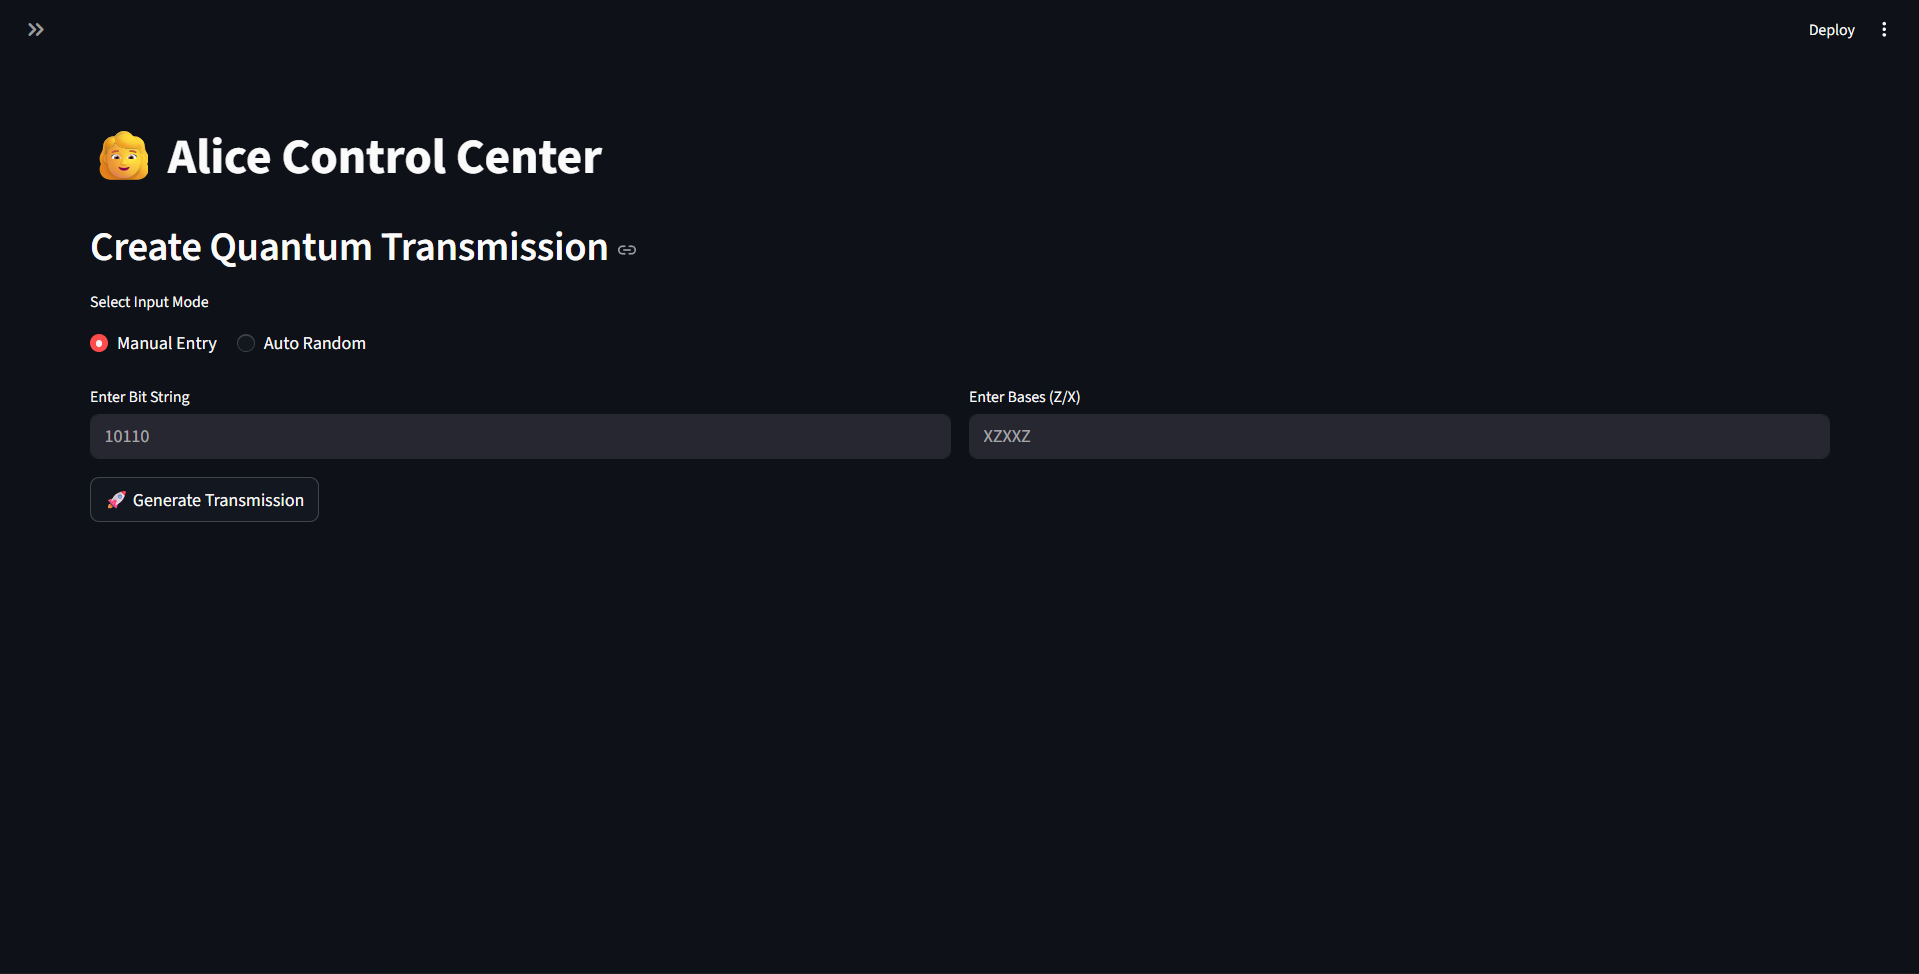
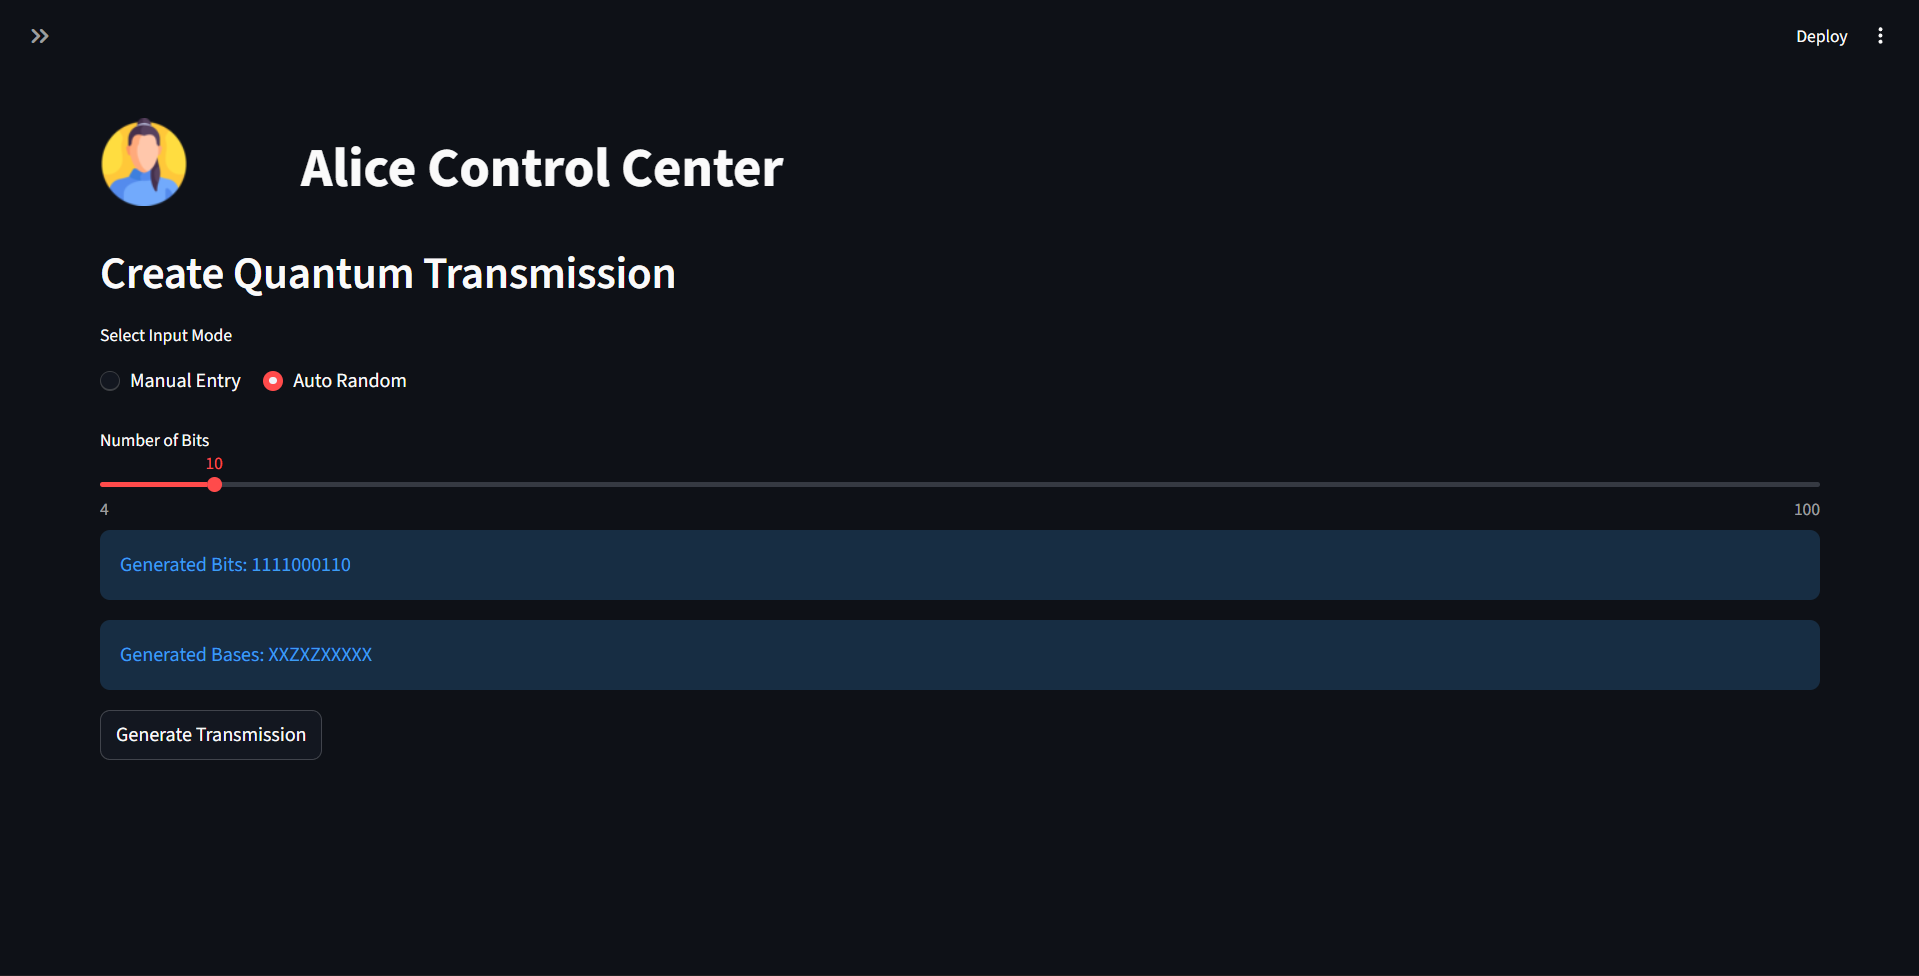
Initial local commit

diff --git a/pages/bob.py b/pages/bob.py
@@ -4,7 +4,16 @@ import streamlit as st
 import random
 from core.qiskit_mode import measure_qubit
 
-st.title("👨 Bob Receiving Station")
+col1, col2 = st.columns([1,8], vertical_alignment="center")
+
+with col1:
+    st.image("assets/bob.png", width=70)
+
+with col2:
+    st.markdown(
+        "<h1 style='margin:0; padding-top:10px;'>Bob Receiving Station</h1>",
+        unsafe_allow_html=True
+    )
 
 if "alice_qubits" not in st.session_state:
     st.warning("Complete Alice step first.")
@@ -29,10 +38,10 @@ else:
         )
 
     with c2:
-        noise_on = st.toggle("📡 Channel Noise")
+        noise_on = st.toggle("Channel Noise")
 
     eve_on = st.toggle("😈 Enable Eve Attack")
-    qiskit_on = st.toggle("⚛ Qiskit Real Quantum Mode")
+    qiskit_on = st.toggle("Qiskit Real Quantum Mode")
 
     # ---------- Basis Input ----------
     if basis_mode == "Manual Entry":
@@ -79,7 +88,7 @@ else:
         return q
 
     # ---------- Run ----------
-    if st.button("📥 Receive & Measure"):
+    if st.button("Receive & Measure"):
 
         bob_bases = bob_bases.strip().upper()
 
@@ -138,7 +147,7 @@ else:
             with m3:
                 st.metric("X Bases", bob_bases.count("X"))
 
-            st.markdown("### 📄 Bob Output")
+            st.markdown("### Bob Output")
 
             st.info(f"Bases: {bob_bases}")
             st.info(f"Measured Bits: {''.join(map(str, results))}")
@@ -147,7 +156,7 @@ else:
                 st.error("⚠ Eve Intercepted Transmission")
 
             if noise_on:
-                st.warning("📡 Noise Applied")
+                st.warning("Noise Applied")
 
             if qiskit_on:
-                st.success("⚛ Measured using Qiskit Quantum Circuits")
+                st.success("Measured using Qiskit Quantum Circuits")

diff --git a/pages/results.py b/pages/results.py
@@ -4,7 +4,7 @@ import streamlit as st
 import pandas as pd
 import plotly.express as px
 
-st.title("📊 Security Analysis Dashboard")
+st.title("Security Analysis Dashboard")
 
 # ---------- Styling ----------
 st.markdown("""
@@ -52,7 +52,7 @@ else:
     left, mid, right = st.columns([1,4,1])
 
     with mid:
-        st.subheader("🔍 Basis Comparison Table")
+        st.subheader("Basis Comparison Table")
         df = pd.DataFrame(rows)
         st.table(df)
 
@@ -125,10 +125,10 @@ else:
             st.metric("Eve Mode", "ON 😈" if eve_used else "OFF ✅")
 
         with x2:
-            st.metric("Noise Mode", "ON 📡" if noise_used else "OFF ✅")
+            st.metric("Noise Mode", "ON" if noise_used else "OFF ✅")
 
         # ---------- Final Key ----------
-        st.markdown("### 🔐 Final Secret Key")
+        st.markdown("### Final Secret Key")
 
         a, b = st.columns(2)
 
@@ -142,11 +142,8 @@ else:
         csv = df.to_csv(index=False).encode("utf-8")
 
         st.download_button(
-            "📥 Download Results CSV",
+            "Download Results CSV",
             data=csv,
             file_name="bb84_results.csv",
             mime="text/csv"
         )
-
-        if alice_key == bob_key and alice_key != "":
-            st.balloons()

diff --git a/app.py b/app.py
@@ -4,7 +4,7 @@ import streamlit as st
 
 st.set_page_config(
     page_title="BB84 Quantum Security System",
-    page_icon="🔐",
+    page_icon=":material/shield_lock:",
     layout="wide"
 )
 
@@ -64,26 +64,32 @@ overflow:hidden;
 </style>
 """, unsafe_allow_html=True)
 
-st.title("🔐 BB84 Quantum Key Distribution")
+st.title(":material/shield_lock: BB84 Quantum Key Distribution")
 st.subheader("Elite Secure Communication Simulator")
 
 st.markdown("---")
 
-c1,c2,c3 = st.columns(3)
+left_space, main, right_space = st.columns([1,5,1])
 
-with c1:
-    st.metric("Alice", "👩 Sender")
+with main:
+    c1, c2, c3 = st.columns(3)
 
-with c2:
-    st.metric("Bob", "👨 Receiver")
+    with c1:
+        st.image("assets/alice.png", width=150)
+        st.metric("Alice", "Sender")
 
-with c3:
-    st.metric("Eve", "😈 Optional")
+    with c2:
+        st.image("assets/bob.png", width=150)
+        st.metric("Bob", "Receiver")
+
+    with c3:
+        st.image("assets/eve.png", width=150)
+        st.metric("Eve", "Optional")
 
 st.markdown("---")
 
 st.markdown("""
-### 🚀 Protocol Workflow
+### Protocol Workflow
 
 ✅ Alice creates secret bits and bases  
 ✅ Qubits are generated and transmitted  

diff --git a/pages/alice.py b/pages/alice.py
@@ -1,7 +1,16 @@
 import streamlit as st
 import random
 
-st.title("👩 Alice Control Center")
+col1, col2 = st.columns([1,8], vertical_alignment="center")
+
+with col1:
+    st.image("assets/alice.png", width=70)
+
+with col2:
+    st.markdown(
+        "<h1 style='margin:0; padding-top:10px;'>Alice Control Center</h1>",
+        unsafe_allow_html=True
+    )
 
 st.markdown("## Create Quantum Transmission")
 
@@ -44,7 +53,7 @@ else:
     st.info(f"Generated Bases: {bases}")
 
 # ---------- GENERATE ----------
-if st.button("🚀 Generate Transmission"):
+if st.button("Generate Transmission"):
 
     bits = bits.strip()
     bases = bases.strip().upper()
@@ -78,5 +87,5 @@ if st.button("🚀 Generate Transmission"):
 
         st.success("Quantum transmission prepared.")
 
-        st.markdown("### 📡 Qubits Ready to Send")
+        st.markdown("### Qubits Ready to Send")
         st.code("   ".join(qubits))
